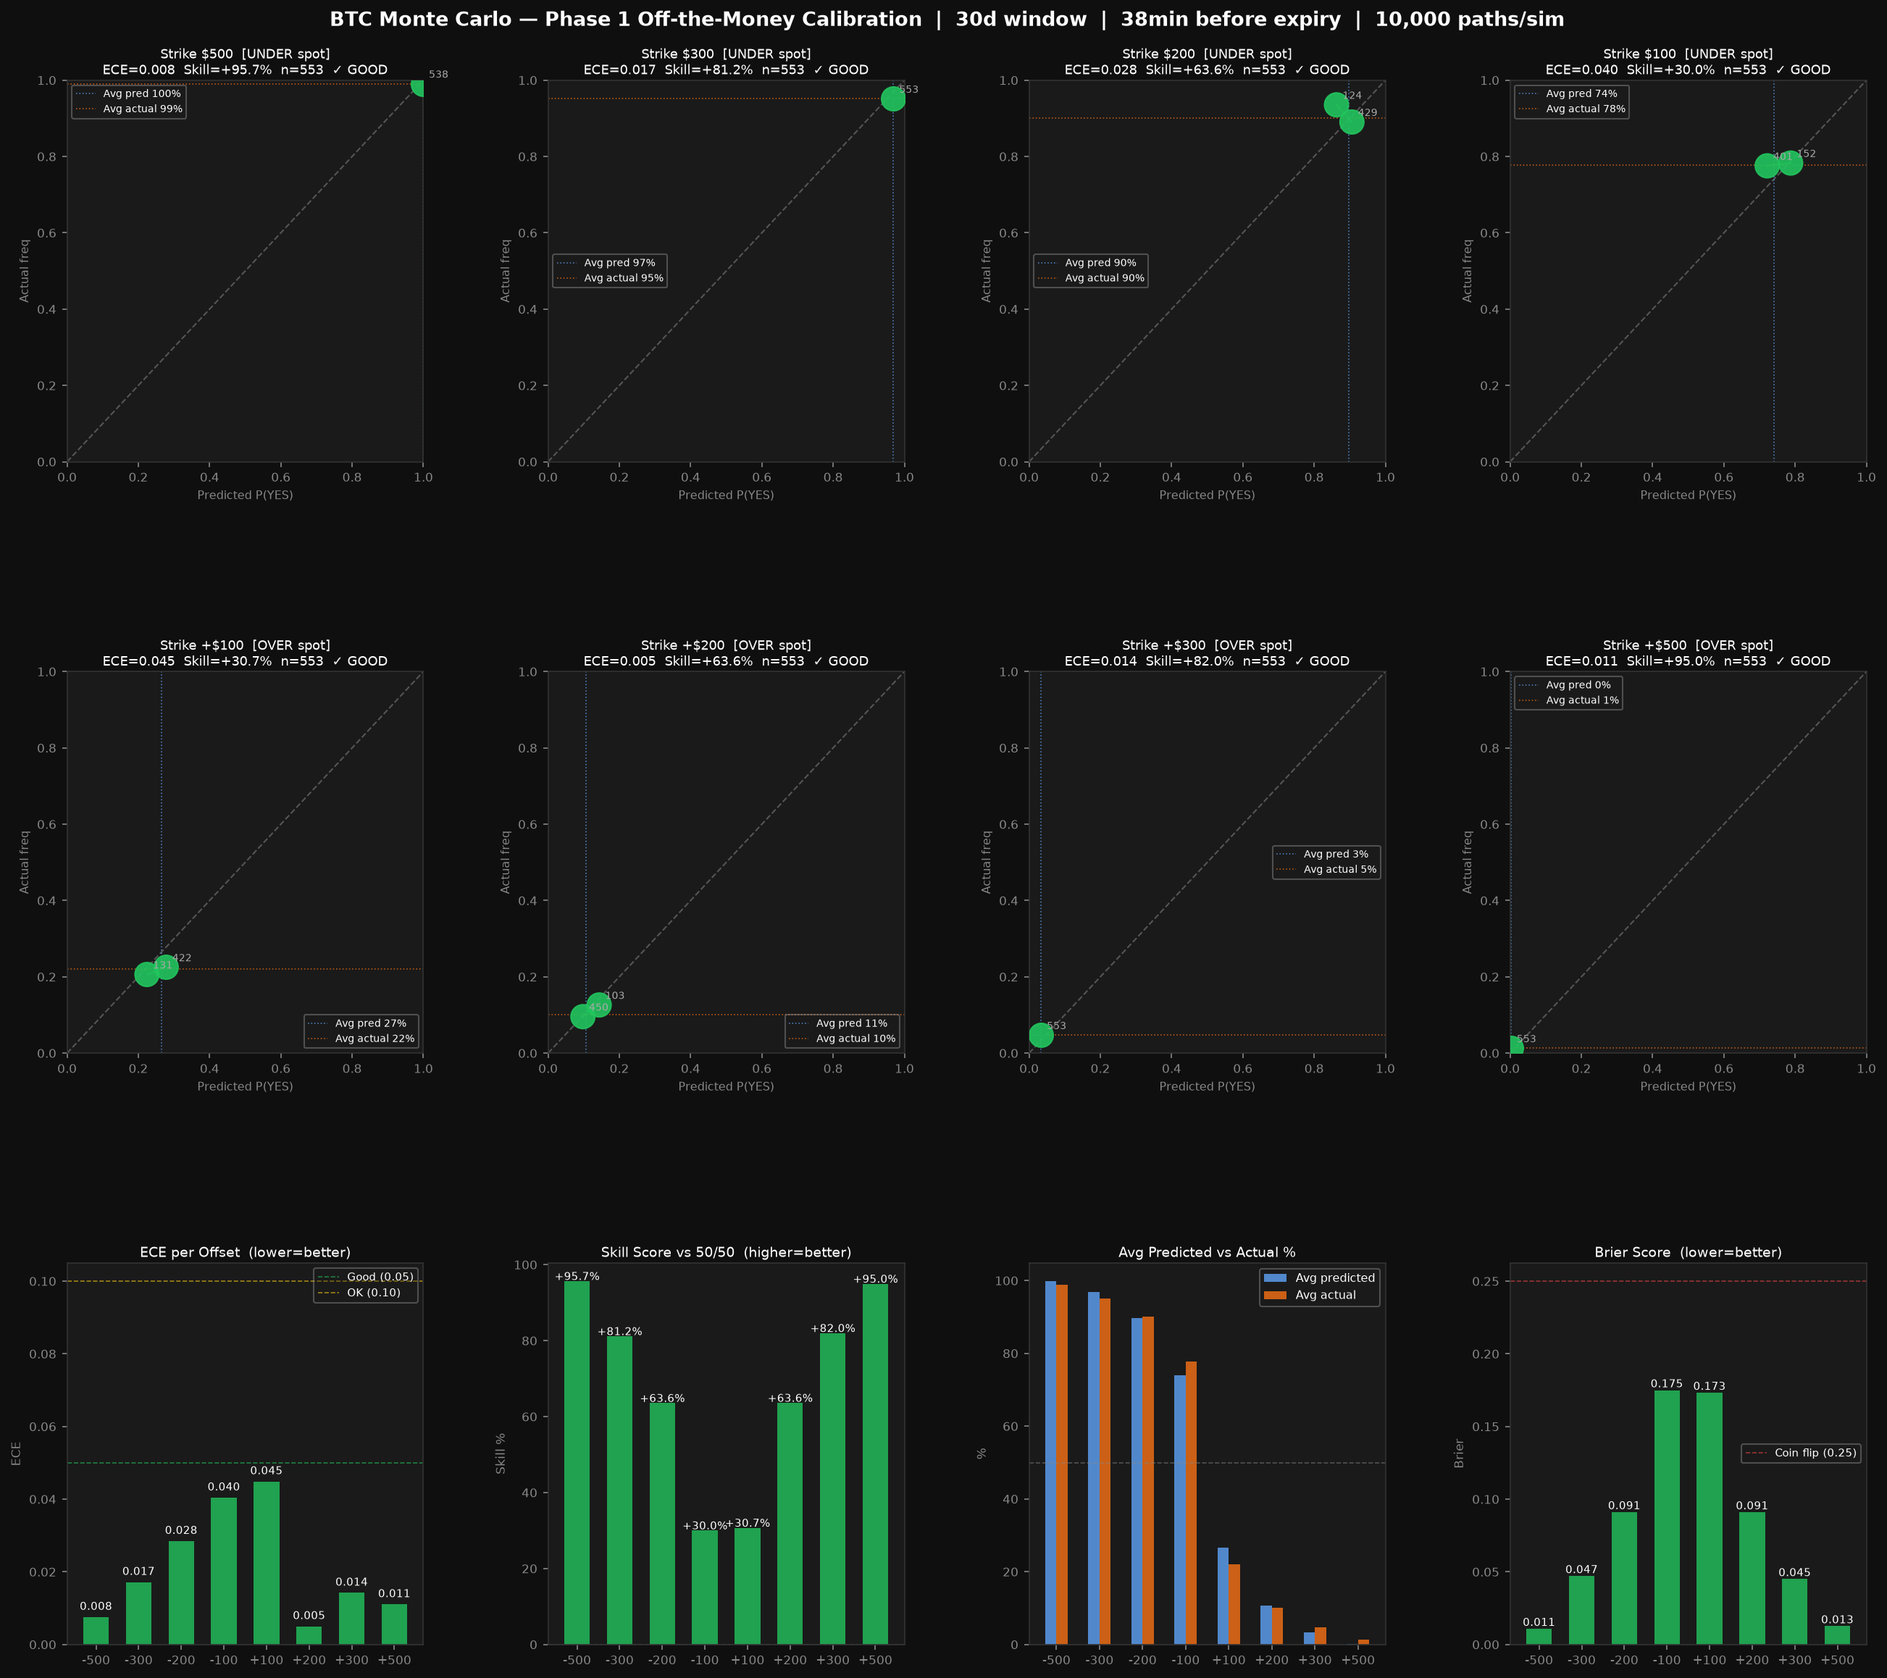
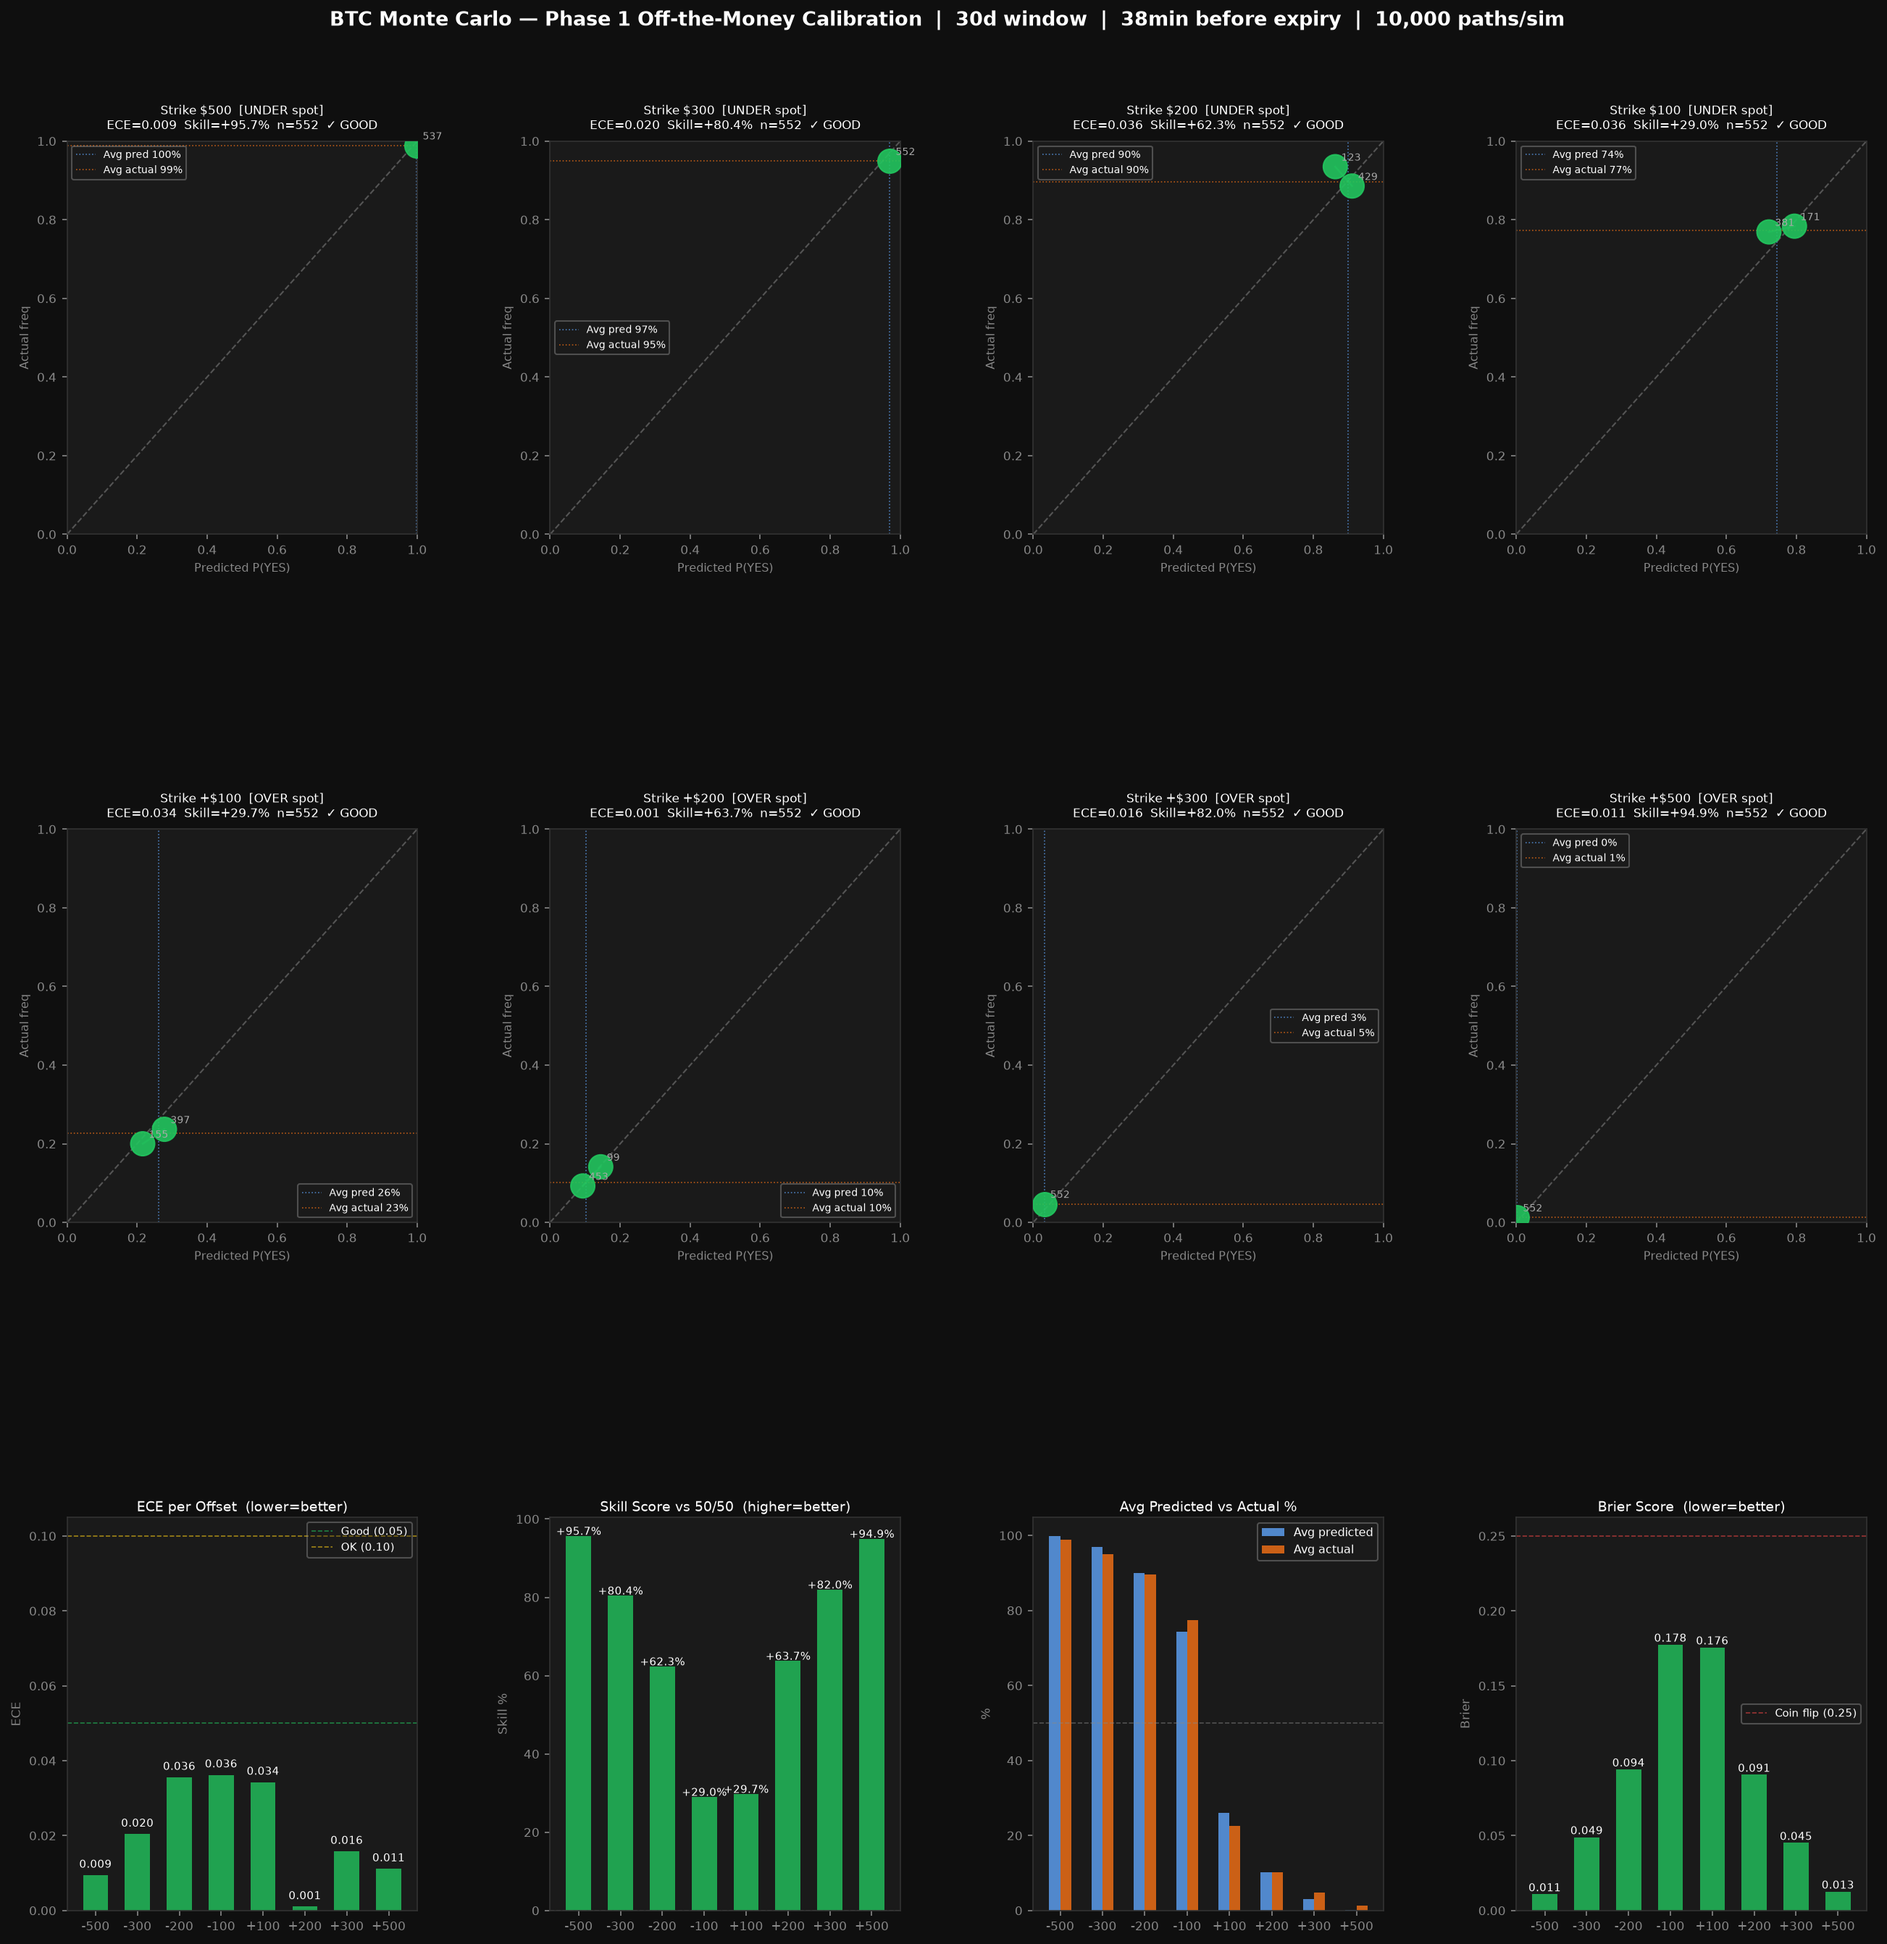
Fixed UI of btc_backtest
Fixed UI of btc_backtest so the top text didn't block the top row of charts

diff --git a/btc_backtest.py b/btc_backtest.py
@@ -484,19 +484,19 @@ def plot_results(results: dict[int, list[dict]],
     cal_rows  = (n_offsets + cols - 1) // cols
     total_rows = cal_rows + 1  # +1 for summary row
 
-    fig = plt.figure(figsize=(18, 5 * total_rows + 1), facecolor=bg)
+    fig = plt.figure(figsize=(18, 5.5 * total_rows + 2), facecolor=bg)
     fig.suptitle(
         f"BTC Monte Carlo — Phase 1 Off-the-Money Calibration  |  "
         f"{BACKTEST_DAYS}d window  |  {MINUTES_BEFORE}min before expiry  |  "
         f"{N_PATHS:,} paths/sim",
-        color="white", fontsize=13, fontweight="bold", y=0.99
+        color="white", fontsize=13, fontweight="bold", y=0.995
     )
 
     gs = gridspec.GridSpec(
         total_rows, cols, figure=fig,
-        hspace=0.55, wspace=0.35,
+        hspace=0.75, wspace=0.38,
         left=0.05, right=0.97,
-        top=0.95, bottom=0.05
+        top=0.93, bottom=0.05
     )
 
     # ── Per-offset calibration curves ──
@@ -539,7 +539,7 @@ def plot_results(results: dict[int, list[dict]],
         ax.set_title(
             f"Strike {sign}${abs(offset):,}  [{direction}]\n"
             f"ECE={m['ece']:.3f}  Skill={m['skill']*100:+.1f}%  n={m['n']}  {m['verdict']}",
-            color="white", fontsize=8.5, pad=4
+            color="white", fontsize=8, pad=8
         )
         ax.set_xlabel("Predicted P(YES)", color="#888", fontsize=7.5)
         ax.set_ylabel("Actual freq", color="#888", fontsize=7.5)

diff --git a/btc_monte_carlo.py b/btc_monte_carlo.py
@@ -719,9 +719,9 @@ def main():
     #
     #     Leave as None to skip that side / skip edge analysis.
     # ────────────────────────────────────────────────────
-    target_strike     = 64_000    # e.g. 64_000
-    market_prob_over  = 0.66    # e.g. 0.77
-    market_prob_under = 0.35    # e.g. 0.25
+    target_strike     = 63_750    # e.g. 64_000
+    market_prob_over  = 0.94    # e.g. 0.77
+    market_prob_under = 0.07    # e.g. 0.25
 
     # ── resolve expiry ──
     expiry_utc, minutes_left = parse_expiry(EXPIRY_HOUR_ET)
